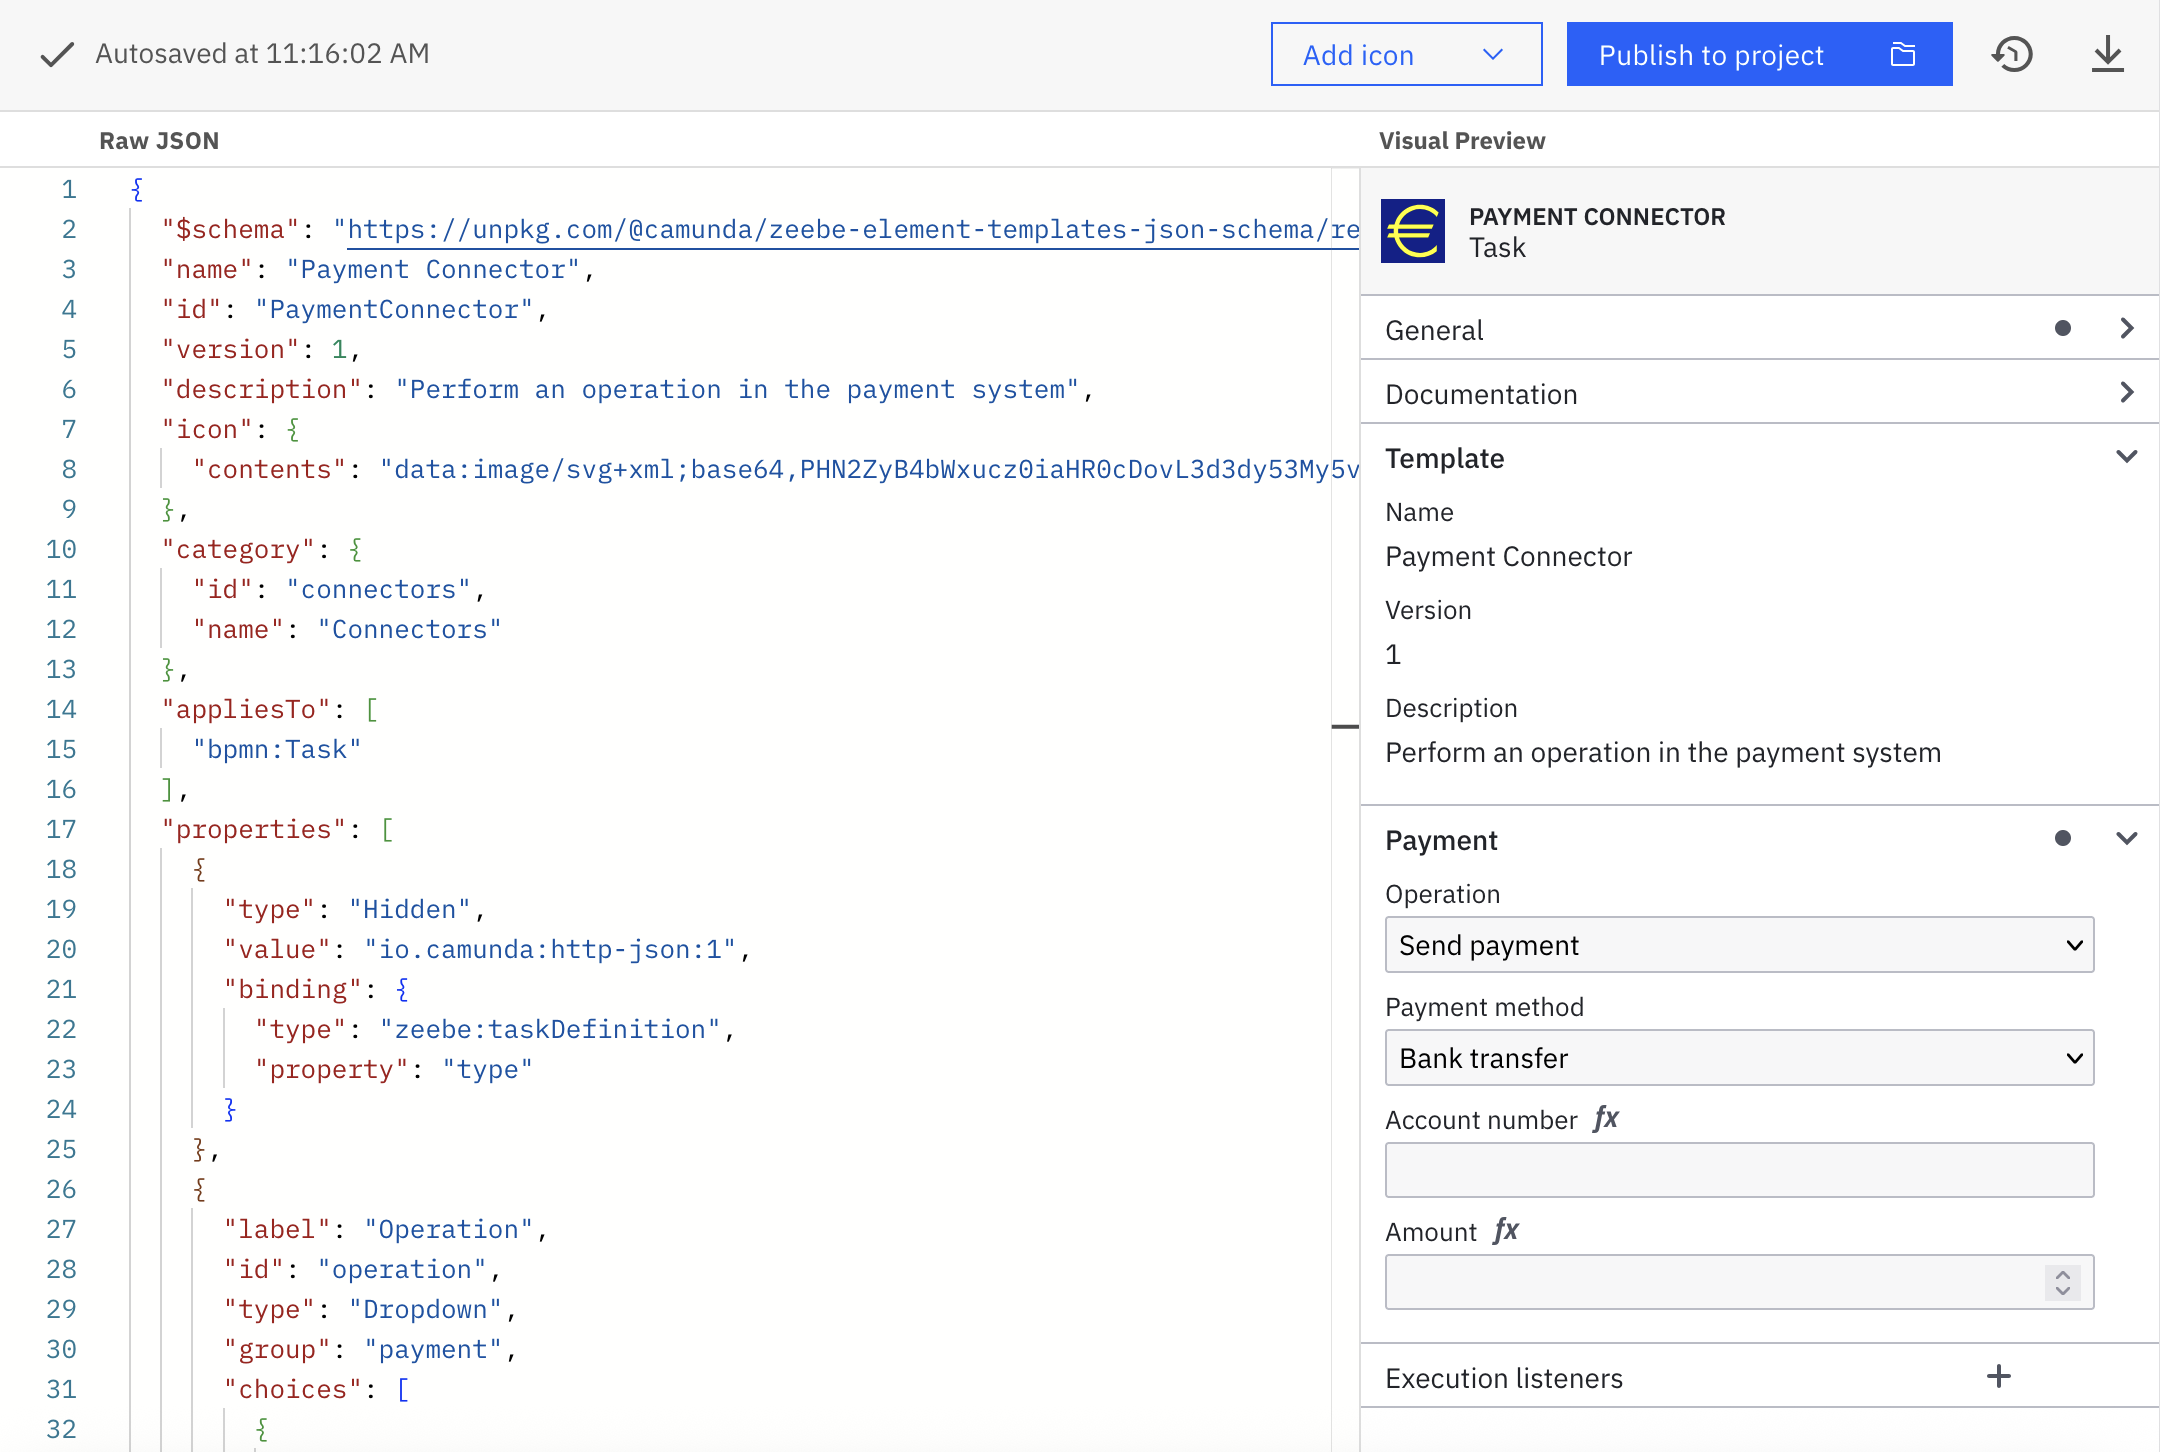
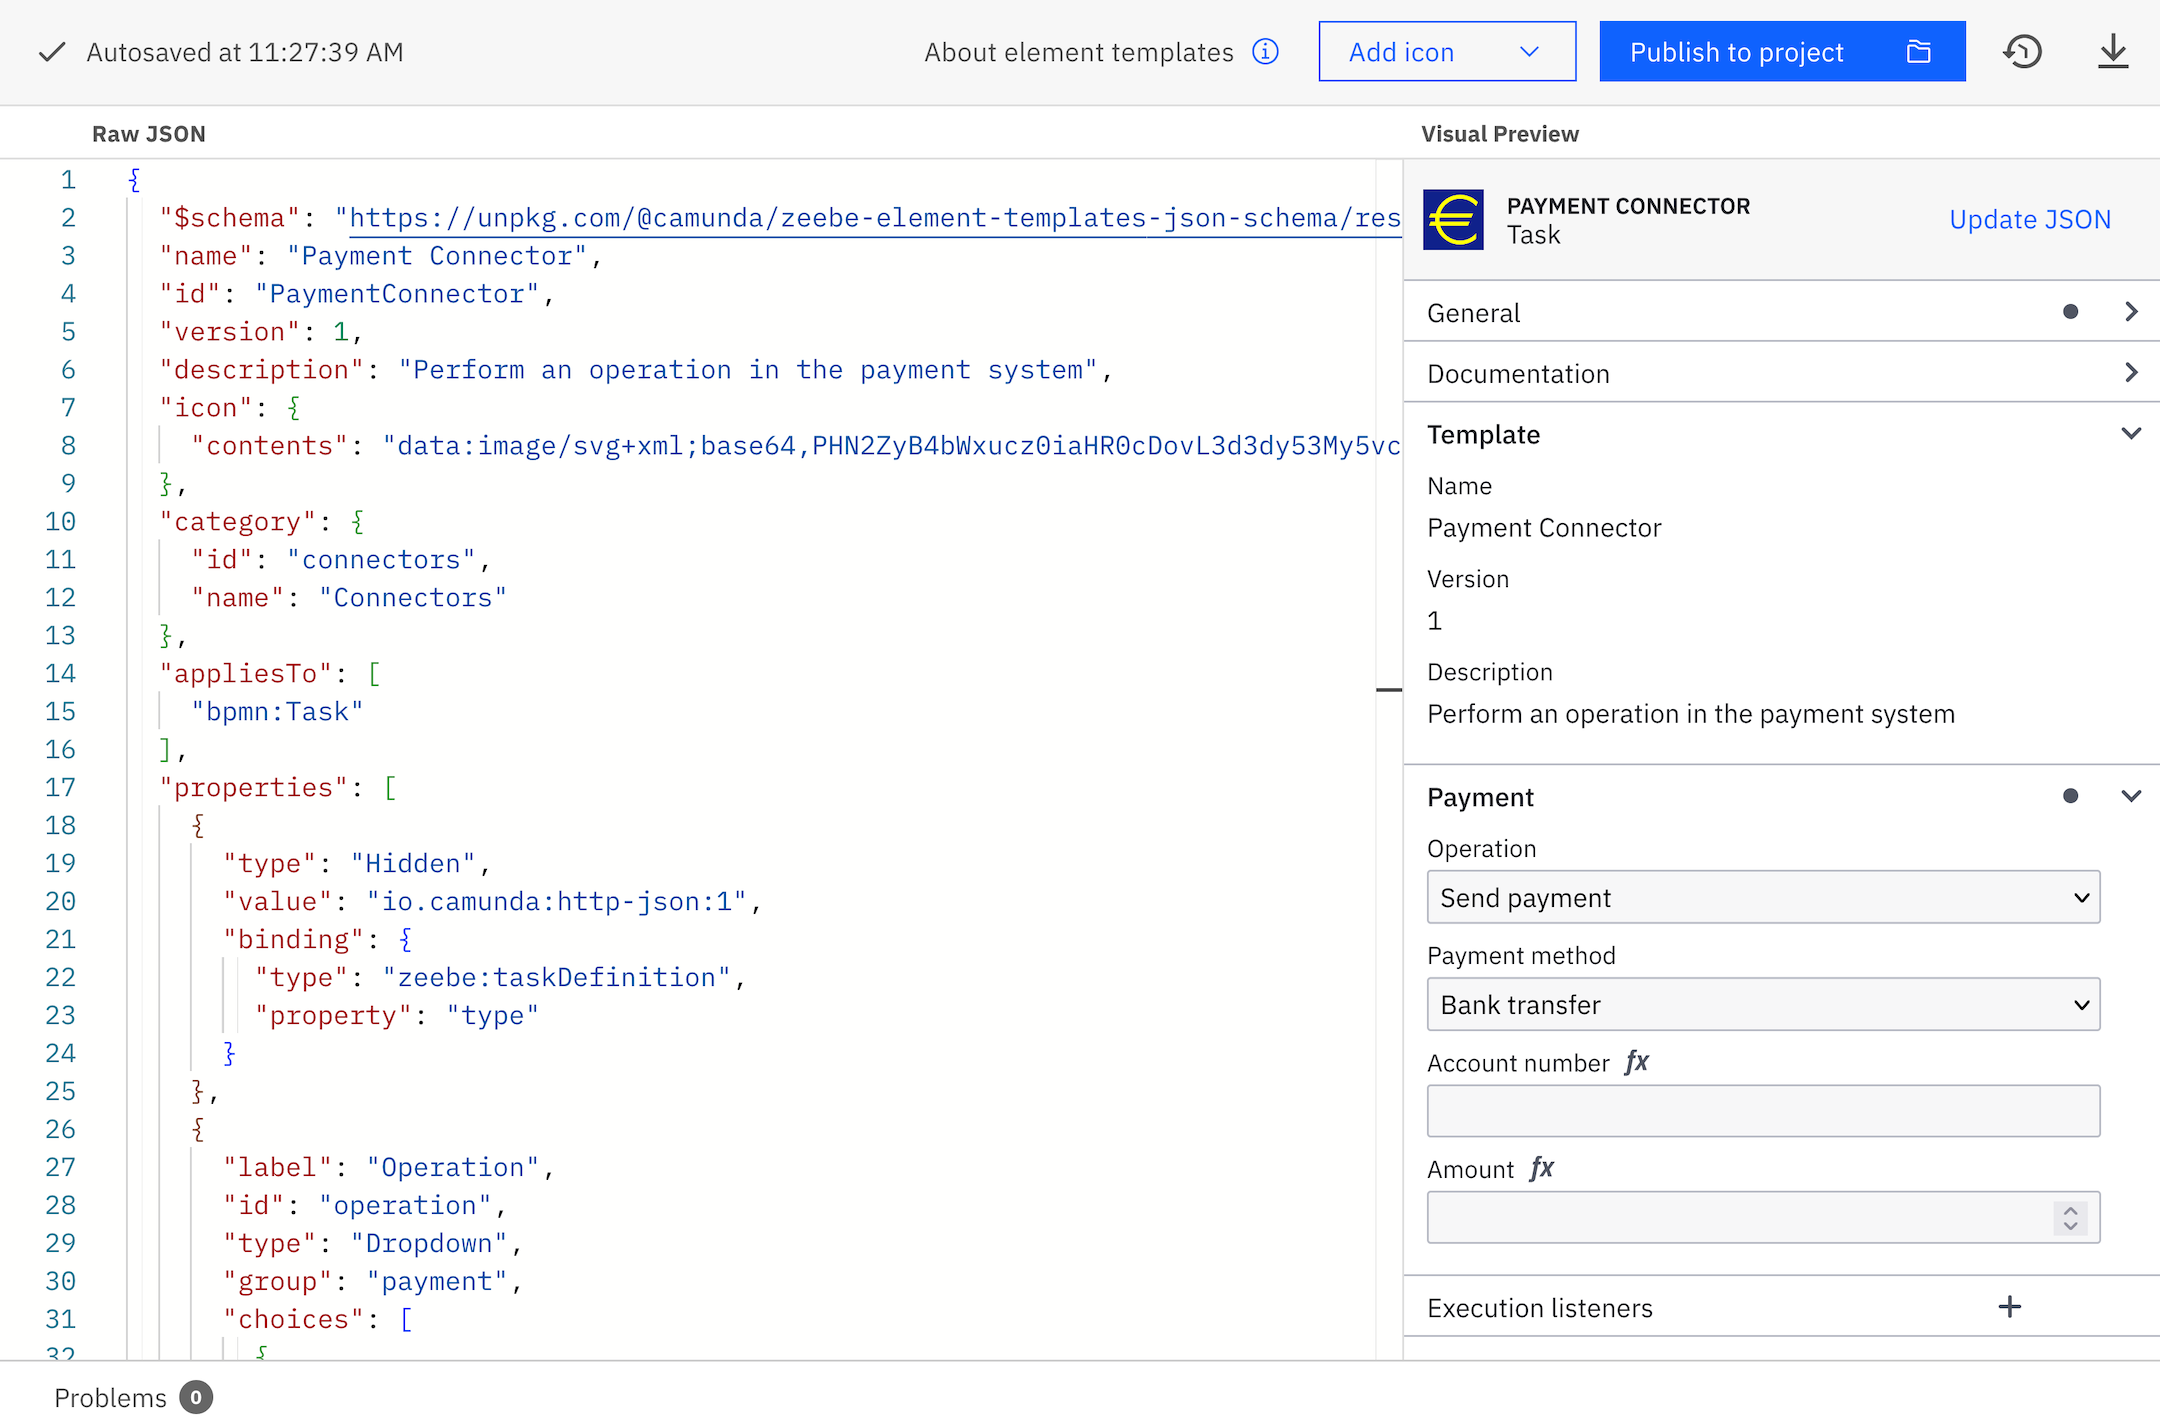
docs(web-modeler): mention "update JSON" option in element template preview

diff --git a/docs/components/modeler/web-modeler/element-templates/manage-element-templates.md b/docs/components/modeler/web-modeler/element-templates/manage-element-templates.md
@@ -42,9 +42,7 @@ The components of the editor interface are as follows:
   :::
 
 - On the right, you observe the live **Visual Preview**. The live preview shows how the properties panel will look when you apply the template to an element. It automatically updates on every valid change, and reflects the latest valid state of the template. The preview allows you to interactively check your template before publishing it.
-  :::info
-  Any changes you make in the preview will _not_ get applied to the template JSON.
-  :::
+  You can also use the **Update JSON** button to update the template's JSON properties with the current input values from the visual preview.
 
 - In the upper right, you can **Add an icon** for your template. You can upload an image file with a maximum size of 8 KB. We recommend using squared SVG graphics. Icons appear as 18x18 pixels in the element on the modeling canvas, and as 32x32 pixels in the properties panel.
 

diff --git a/versioned_docs/version-8.8/components/modeler/web-modeler/element-templates/manage-element-templates.md b/versioned_docs/version-8.8/components/modeler/web-modeler/element-templates/manage-element-templates.md
@@ -42,9 +42,7 @@ The components of the editor interface are as follows:
   :::
 
 - On the right, you observe the live **Visual Preview**. The live preview shows how the properties panel will look when you apply the template to an element. It automatically updates on every valid change, and reflects the latest valid state of the template. The preview allows you to interactively check your template before publishing it.
-  :::info
-  Any changes you make in the preview will _not_ get applied to the template JSON.
-  :::
+  You can also use the **Update JSON** button to update the template's JSON properties with the current input values from the visual preview.
 
 - In the upper right, you can **Add an icon** for your template. You can upload an image file with a maximum size of 8 KB. We recommend using squared SVG graphics. Icons appear as 18x18 pixels in the element on the modeling canvas, and as 32x32 pixels in the properties panel.
 
